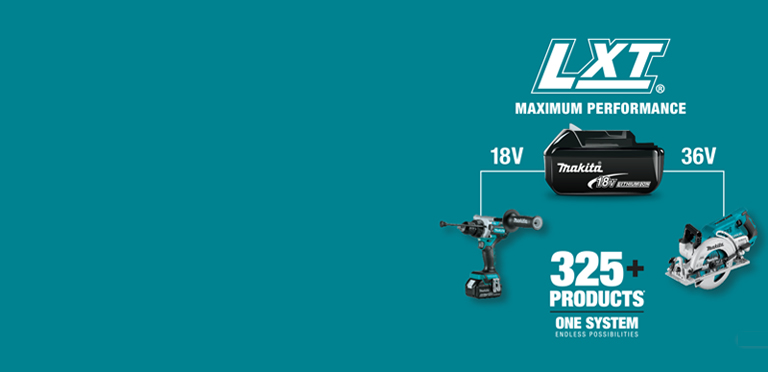
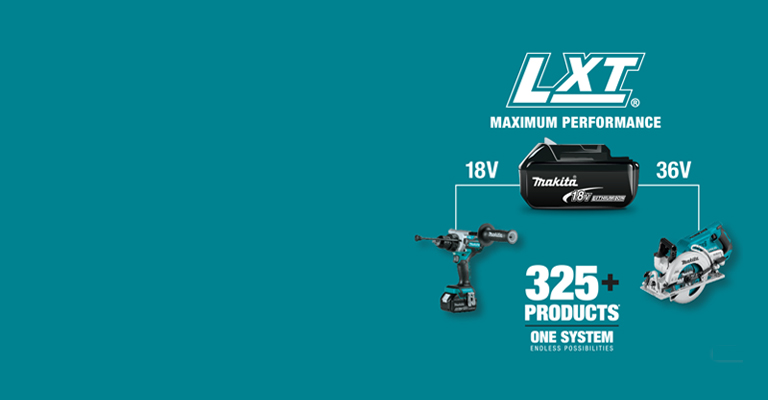
WNXM-1122: updating images

Changed region(s): [[0.5312, 0.5323, 1.0, 0.9167], [0.5938, 0.0887, 0.9375, 0.5323]]

diff --git a/apps/lac-web/app/(home)/page.tsx b/apps/lac-web/app/(home)/page.tsx
@@ -157,9 +157,9 @@ const HomePage = async () => {
               width={258}
               height={225}
               className={cn(
-                "absolute bottom-3.5 min-h-[11.75rem] w-[19.75rem] shrink-0 snap-start self-end rounded-lg object-contain xl:absolute xl:bottom-0 xl:h-[21.25rem] xl:w-auto xl:snap-align-none",
+                "absolute bottom-[1.17rem] min-h-[11.75rem] w-[19.75rem] shrink-0 snap-start self-end rounded-lg object-contain xl:absolute xl:bottom-0 xl:h-[21.25rem] xl:w-auto xl:snap-align-none",
                 ad.type === "spotlight"
-                  ? "max-h-[8rem] xl:bottom-[45px] xl:max-h-[19.063rem]"
+                  ? "max-h-[8rem] xl:bottom-[2.2rem] xl:max-h-[19.063rem]"
                   : "xl:bottom-0",
               )}
             />
